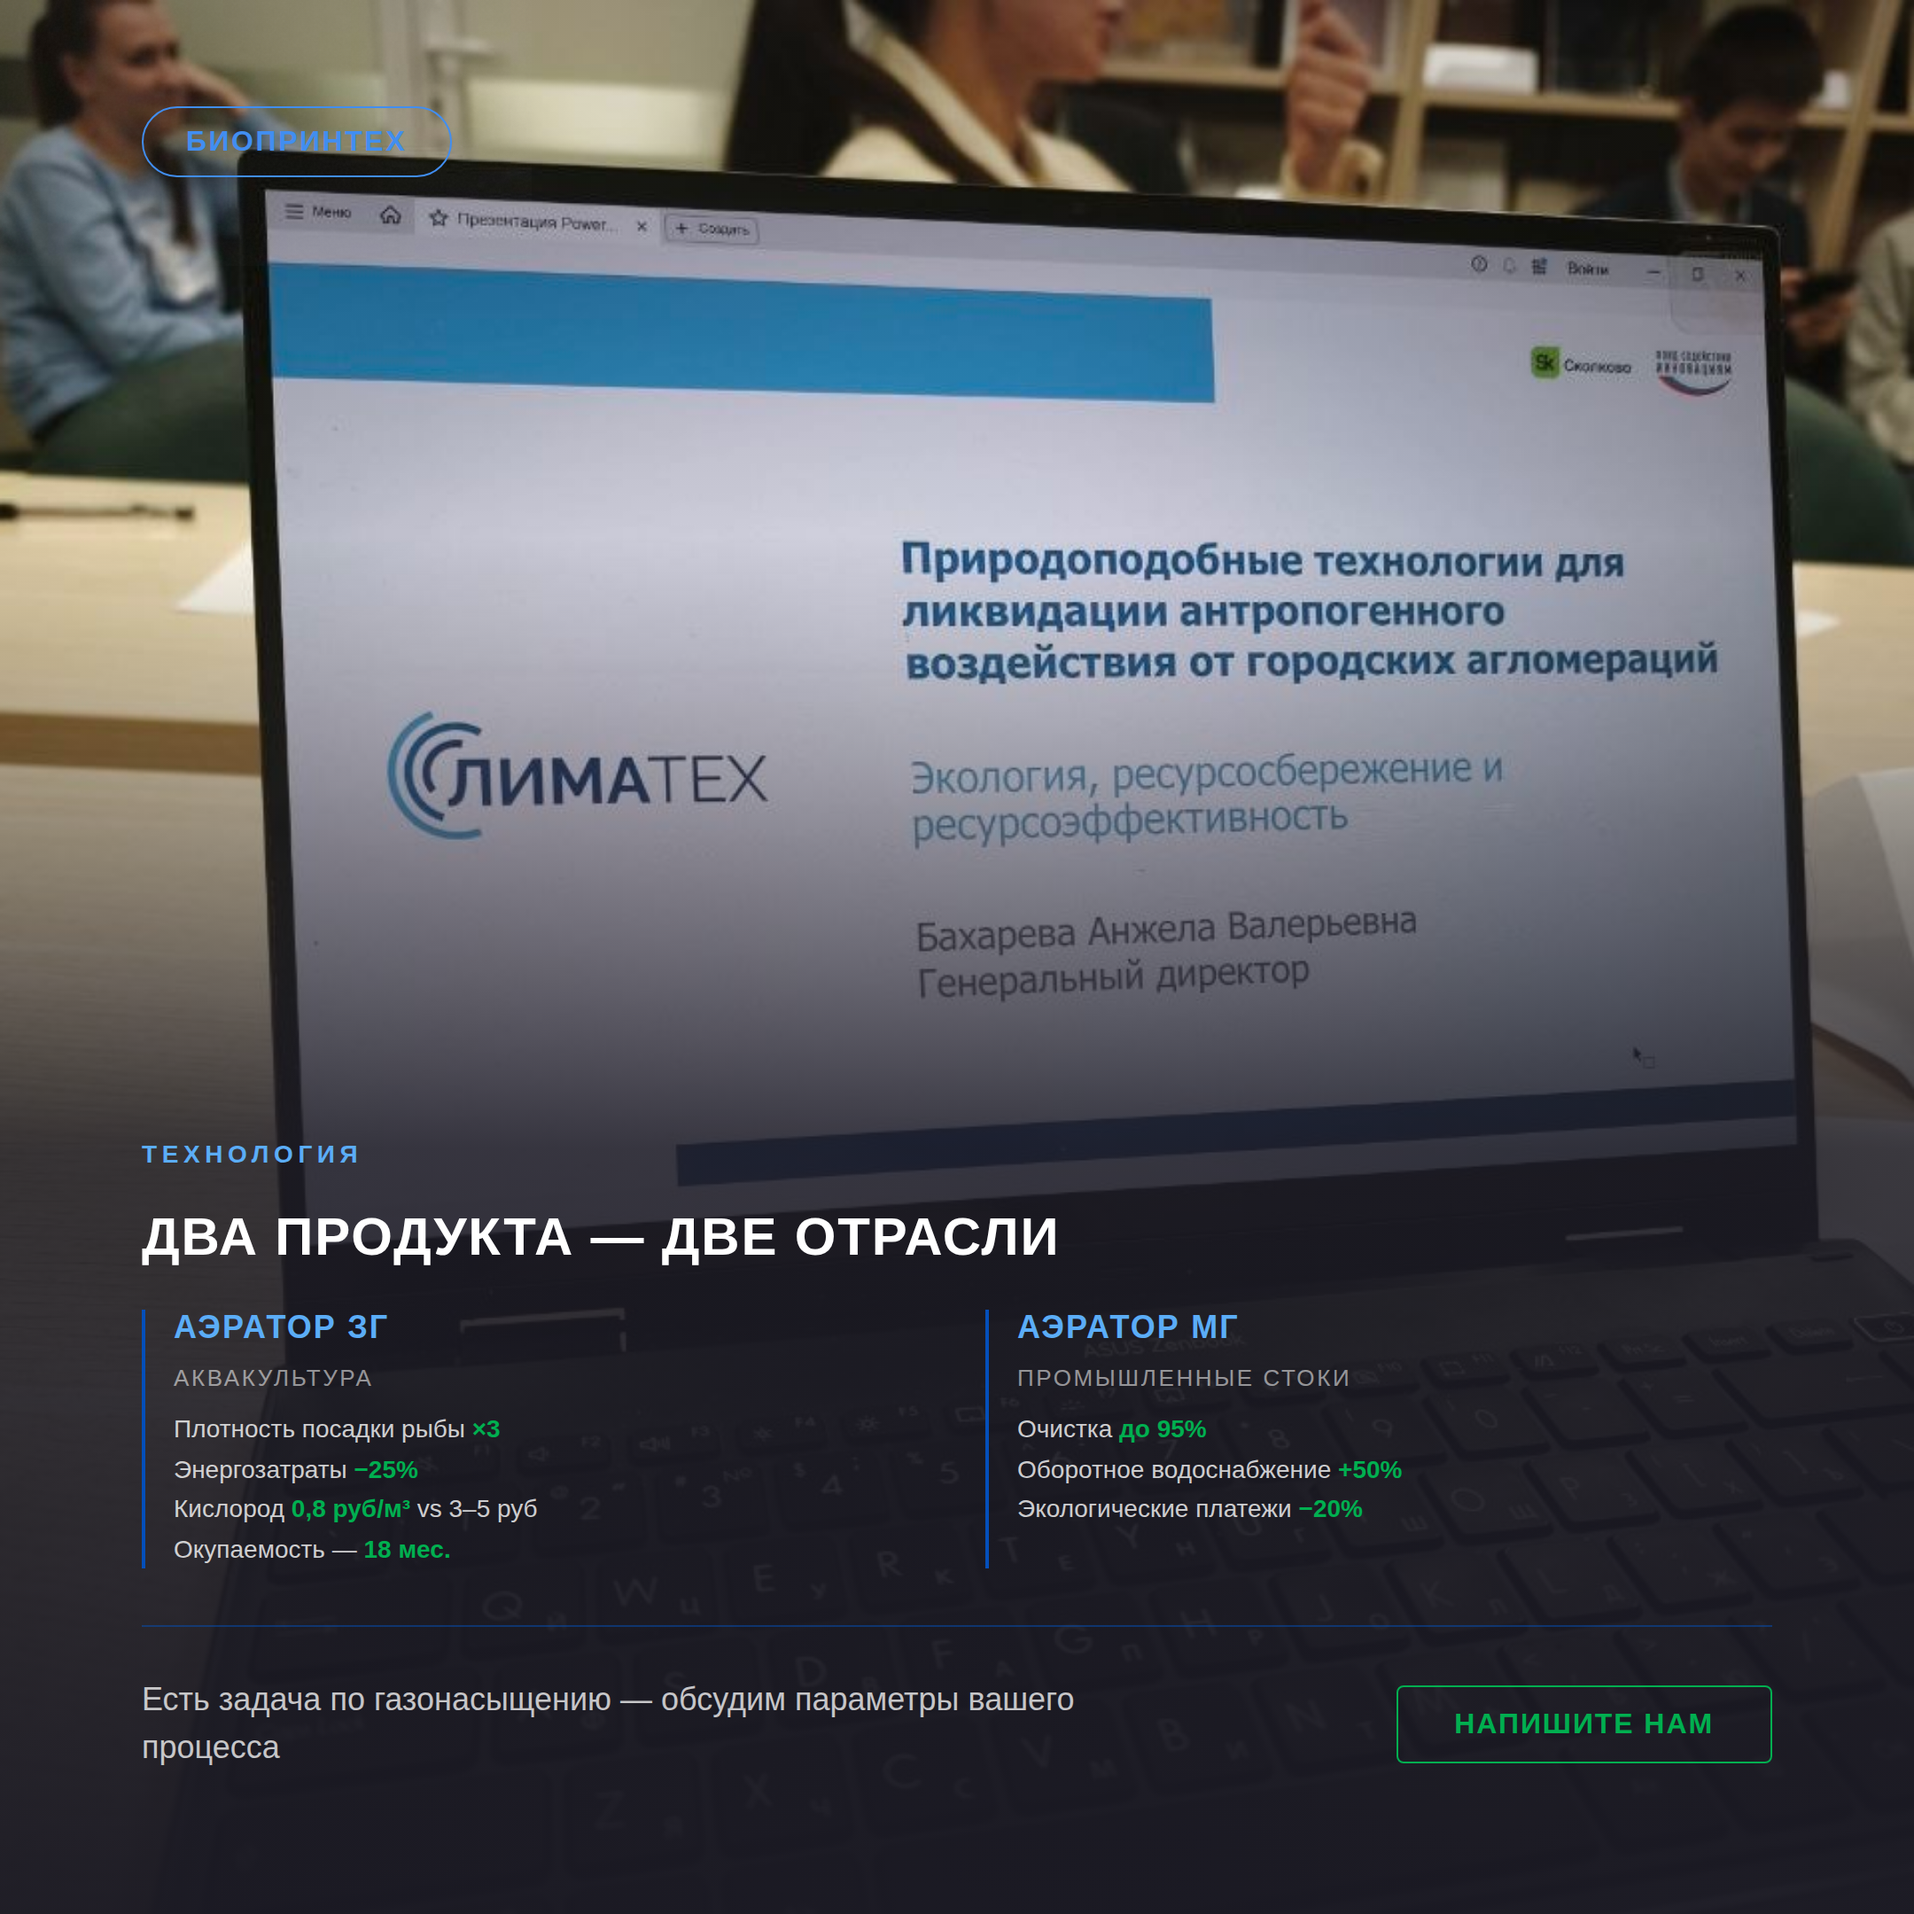
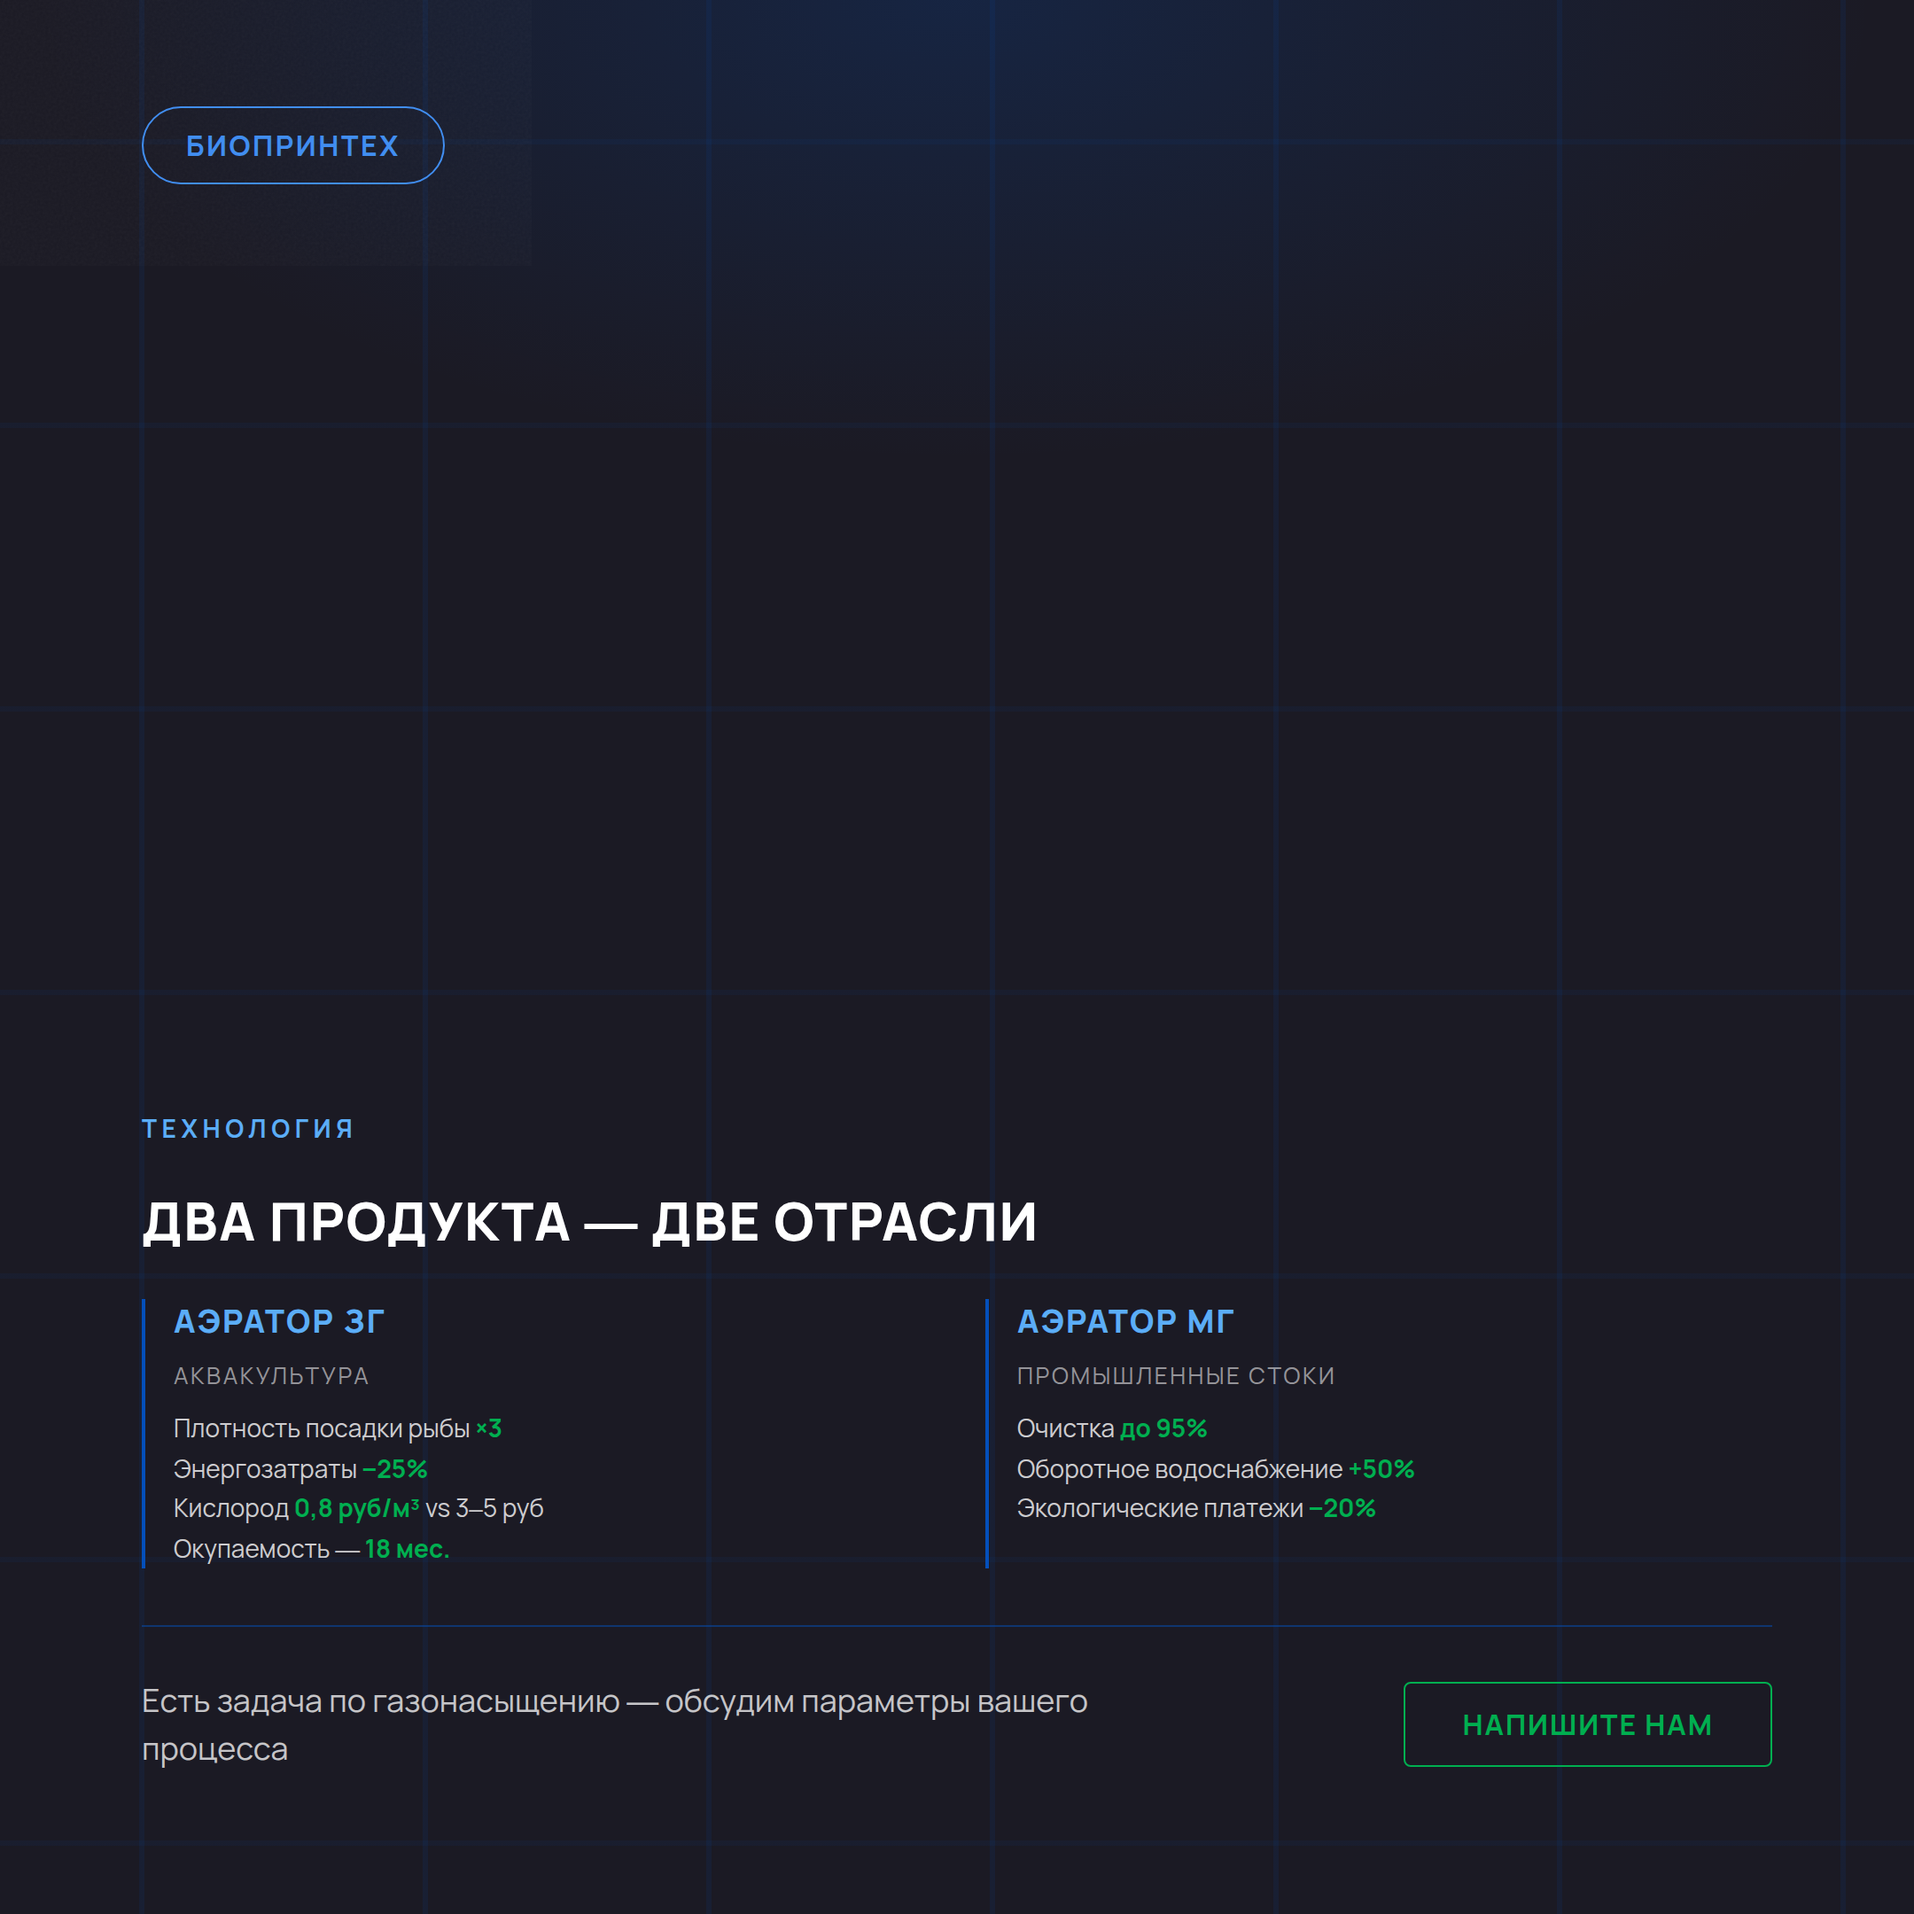
posts: шрифт Manrope локально + обновлён дизайн слайдов — Bioprintex_Limatex

diff --git a/projects/Bioprintex_Limatex/posts/drafts/27_04_2026-1/slide_03.html b/projects/Bioprintex_Limatex/posts/drafts/27_04_2026-1/slide_03.html
@@ -4,7 +4,12 @@
 <meta charset="UTF-8">
 <meta name="viewport" content="width=1080">
 <style>
-  @import url('https://fonts.googleapis.com/css2?family=Manrope:wght@400;600;700;800&display=swap');
+  @font-face { font-family: 'Manrope'; font-weight: 400; src: url('file:///home/user/smm-system/global/brand/fonts/Manrope-Latin-Regular.woff2') format('woff2'); unicode-range: U+0000-00FF; }
+  @font-face { font-family: 'Manrope'; font-weight: 400; src: url('file:///home/user/smm-system/global/brand/fonts/Manrope-Regular.woff2') format('woff2'); unicode-range: U+0400-04FF; }
+  @font-face { font-family: 'Manrope'; font-weight: 700; src: url('file:///home/user/smm-system/global/brand/fonts/Manrope-Latin-Bold.woff2') format('woff2'); unicode-range: U+0000-00FF; }
+  @font-face { font-family: 'Manrope'; font-weight: 700; src: url('file:///home/user/smm-system/global/brand/fonts/Manrope-Bold.woff2') format('woff2'); unicode-range: U+0400-04FF; }
+  @font-face { font-family: 'Manrope'; font-weight: 800; src: url('file:///home/user/smm-system/global/brand/fonts/Manrope-Latin-ExtraBold.woff2') format('woff2'); unicode-range: U+0000-00FF; }
+  @font-face { font-family: 'Manrope'; font-weight: 800; src: url('file:///home/user/smm-system/global/brand/fonts/Manrope-ExtraBold.woff2') format('woff2'); unicode-range: U+0400-04FF; }
 
   * { margin: 0; padding: 0; box-sizing: border-box; }
 
@@ -23,20 +28,21 @@
     overflow: hidden;
   }
 
-  /* Photo background */
+  /* Dark tech background */
   .photo-bg {
     position: absolute;
     inset: 0;
-    background-image: url('file:///home/user/smm-system/projects/Bioprintex_Limatex/posts/inbox/23_04_2026-konferentsiya/photo_02.jpg');
-    background-size: cover;
-    background-position: center center;
+    background: #1B1A24;
+    background-image:
+      linear-gradient(90deg, transparent 49%, rgba(4,79,186,0.10) 49%, rgba(4,79,186,0.10) 51%, transparent 51%),
+      linear-gradient(0deg, transparent 49%, rgba(4,79,186,0.07) 49%, rgba(4,79,186,0.07) 51%, transparent 51%);
+    background-size: 160px 160px;
   }
 
-  /* Heavy dark overlay — photo becomes texture */
   .overlay {
     position: absolute;
     inset: 0;
-    background: rgba(27,26,36,0.80);
+    background: radial-gradient(ellipse 90% 60% at 50% 50%, rgba(4,79,186,0.12) 0%, rgba(27,26,36,0) 70%);
   }
 
   /* Grain overlay */
@@ -261,15 +267,15 @@
       <div class="achievement-sublabel">Инновации в пищевой отрасли</div>
     </div>
 
-    <!-- Block 4: Patent -->
+    <!-- Block 4: Страна Возможностей -->
     <div class="achievement">
       <svg class="achievement-icon" width="44" height="44" viewBox="0 0 44 44" fill="none" xmlns="http://www.w3.org/2000/svg">
-        <path d="M22 4 L36 10 L36 24 C36 32 22 40 22 40 C22 40 8 32 8 24 L8 10 Z" stroke="#00AF50" stroke-width="1.5" fill="none" stroke-linejoin="round"/>
-        <path d="M16 22 L20 26 L28 18" stroke="#00AF50" stroke-width="2" stroke-linecap="round" stroke-linejoin="round"/>
+        <circle cx="22" cy="22" r="16" stroke="#00AF50" stroke-width="1.5" fill="none"/>
+        <path d="M14 22 L19 27 L30 16" stroke="#00AF50" stroke-width="2" stroke-linecap="round" stroke-linejoin="round"/>
       </svg>
-      <div class="achievement-number green">ПАТЕНТ</div>
-      <div class="achievement-label">Патентная защита<br>разработок компании</div>
-      <div class="achievement-sublabel">Интеллектуальная собственность</div>
+      <div class="achievement-number green" style="font-size:28px;line-height:1.2">Нац. экол.<br>инициатива</div>
+      <div class="achievement-label">Лауреаты конкурса<br>«Страна Возможностей»</div>
+      <div class="achievement-sublabel">Таврида·Арт · Экология</div>
     </div>
 
   </div>

diff --git a/projects/Bioprintex_Limatex/posts/drafts/27_04_2026-1/slide_02.html b/projects/Bioprintex_Limatex/posts/drafts/27_04_2026-1/slide_02.html
@@ -4,7 +4,12 @@
 <meta charset="UTF-8">
 <meta name="viewport" content="width=1080">
 <style>
-  @import url('https://fonts.googleapis.com/css2?family=Manrope:wght@400;600;700;800&display=swap');
+  @font-face { font-family: 'Manrope'; font-weight: 400; src: url('file:///home/user/smm-system/global/brand/fonts/Manrope-Latin-Regular.woff2') format('woff2'); unicode-range: U+0000-00FF; }
+  @font-face { font-family: 'Manrope'; font-weight: 400; src: url('file:///home/user/smm-system/global/brand/fonts/Manrope-Regular.woff2') format('woff2'); unicode-range: U+0400-04FF; }
+  @font-face { font-family: 'Manrope'; font-weight: 700; src: url('file:///home/user/smm-system/global/brand/fonts/Manrope-Latin-Bold.woff2') format('woff2'); unicode-range: U+0000-00FF; }
+  @font-face { font-family: 'Manrope'; font-weight: 700; src: url('file:///home/user/smm-system/global/brand/fonts/Manrope-Bold.woff2') format('woff2'); unicode-range: U+0400-04FF; }
+  @font-face { font-family: 'Manrope'; font-weight: 800; src: url('file:///home/user/smm-system/global/brand/fonts/Manrope-Latin-ExtraBold.woff2') format('woff2'); unicode-range: U+0000-00FF; }
+  @font-face { font-family: 'Manrope'; font-weight: 800; src: url('file:///home/user/smm-system/global/brand/fonts/Manrope-ExtraBold.woff2') format('woff2'); unicode-range: U+0400-04FF; }
 
   * { margin: 0; padding: 0; box-sizing: border-box; }
 
@@ -23,26 +28,23 @@
     overflow: hidden;
   }
 
-  /* Full-bleed photo background */
+  /* Dark tech background */
   .photo-bg {
     position: absolute;
     inset: 0;
-    background-image: url('file:///home/user/smm-system/projects/Bioprintex_Limatex/posts/inbox/23_04_2026-konferentsiya/photo_04.jpg');
-    background-size: cover;
-    background-position: center top;
+    background: #1B1A24;
+    background-image:
+      linear-gradient(90deg, transparent 49%, rgba(4,79,186,0.10) 49%, rgba(4,79,186,0.10) 51%, transparent 51%),
+      linear-gradient(0deg, transparent 49%, rgba(4,79,186,0.07) 49%, rgba(4,79,186,0.07) 51%, transparent 51%);
+    background-size: 160px 160px;
   }
 
-  /* Gradient overlay from bottom */
+  /* Radial glow top-center (suggests people / presence) */
   .overlay {
     position: absolute;
     inset: 0;
-    background: linear-gradient(
-      to bottom,
-      rgba(27,26,36,0.15) 0%,
-      rgba(27,26,36,0) 35%,
-      rgba(27,26,36,0.75) 65%,
-      rgba(27,26,36,0.92) 100%
-    );
+    background: radial-gradient(ellipse 80% 50% at 50% 20%, rgba(4,79,186,0.18) 0%, rgba(27,26,36,0) 70%),
+                linear-gradient(to bottom, rgba(27,26,36,0) 50%, rgba(27,26,36,0.6) 100%);
   }
 
   /* Grain overlay */

diff --git a/projects/Bioprintex_Limatex/posts/drafts/27_04_2026-1/slide_04.html b/projects/Bioprintex_Limatex/posts/drafts/27_04_2026-1/slide_04.html
@@ -4,7 +4,12 @@
 <meta charset="UTF-8">
 <meta name="viewport" content="width=1080">
 <style>
-  @import url('https://fonts.googleapis.com/css2?family=Manrope:wght@400;600;700;800&display=swap');
+  @font-face { font-family: 'Manrope'; font-weight: 400; src: url('file:///home/user/smm-system/global/brand/fonts/Manrope-Latin-Regular.woff2') format('woff2'); unicode-range: U+0000-00FF; }
+  @font-face { font-family: 'Manrope'; font-weight: 400; src: url('file:///home/user/smm-system/global/brand/fonts/Manrope-Regular.woff2') format('woff2'); unicode-range: U+0400-04FF; }
+  @font-face { font-family: 'Manrope'; font-weight: 700; src: url('file:///home/user/smm-system/global/brand/fonts/Manrope-Latin-Bold.woff2') format('woff2'); unicode-range: U+0000-00FF; }
+  @font-face { font-family: 'Manrope'; font-weight: 700; src: url('file:///home/user/smm-system/global/brand/fonts/Manrope-Bold.woff2') format('woff2'); unicode-range: U+0400-04FF; }
+  @font-face { font-family: 'Manrope'; font-weight: 800; src: url('file:///home/user/smm-system/global/brand/fonts/Manrope-Latin-ExtraBold.woff2') format('woff2'); unicode-range: U+0000-00FF; }
+  @font-face { font-family: 'Manrope'; font-weight: 800; src: url('file:///home/user/smm-system/global/brand/fonts/Manrope-ExtraBold.woff2') format('woff2'); unicode-range: U+0400-04FF; }
 
   * { margin: 0; padding: 0; box-sizing: border-box; }
 
@@ -23,26 +28,21 @@
     overflow: hidden;
   }
 
-  /* Full-bleed photo background */
+  /* Dark tech background */
   .photo-bg {
     position: absolute;
     inset: 0;
-    background-image: url('file:///home/user/smm-system/projects/Bioprintex_Limatex/posts/inbox/23_04_2026-konferentsiya/photo_01.jpg');
-    background-size: cover;
-    background-position: center center;
+    background: #1B1A24;
+    background-image:
+      linear-gradient(90deg, transparent 49%, rgba(4,79,186,0.10) 49%, rgba(4,79,186,0.10) 51%, transparent 51%),
+      linear-gradient(0deg, transparent 49%, rgba(4,79,186,0.07) 49%, rgba(4,79,186,0.07) 51%, transparent 51%);
+    background-size: 160px 160px;
   }
 
-  /* Gradient overlay */
   .overlay {
     position: absolute;
     inset: 0;
-    background: linear-gradient(
-      to bottom,
-      rgba(27,26,36,0.2) 0%,
-      rgba(27,26,36,0) 28%,
-      rgba(27,26,36,0.85) 60%,
-      rgba(27,26,36,0.97) 100%
-    );
+    background: radial-gradient(ellipse 80% 40% at 50% 0%, rgba(4,79,186,0.20) 0%, rgba(27,26,36,0) 60%);
   }
 
   /* Grain overlay */

diff --git a/projects/Bioprintex_Limatex/posts/drafts/27_04_2026-1/slide_01.html b/projects/Bioprintex_Limatex/posts/drafts/27_04_2026-1/slide_01.html
@@ -4,7 +4,12 @@
 <meta charset="UTF-8">
 <meta name="viewport" content="width=1080">
 <style>
-  @import url('https://fonts.googleapis.com/css2?family=Manrope:wght@400;600;700;800&display=swap');
+  @font-face { font-family: 'Manrope'; font-weight: 400; src: url('file:///home/user/smm-system/global/brand/fonts/Manrope-Latin-Regular.woff2') format('woff2'); unicode-range: U+0000-00FF; }
+  @font-face { font-family: 'Manrope'; font-weight: 400; src: url('file:///home/user/smm-system/global/brand/fonts/Manrope-Regular.woff2') format('woff2'); unicode-range: U+0400-04FF; }
+  @font-face { font-family: 'Manrope'; font-weight: 700; src: url('file:///home/user/smm-system/global/brand/fonts/Manrope-Latin-Bold.woff2') format('woff2'); unicode-range: U+0000-00FF; }
+  @font-face { font-family: 'Manrope'; font-weight: 700; src: url('file:///home/user/smm-system/global/brand/fonts/Manrope-Bold.woff2') format('woff2'); unicode-range: U+0400-04FF; }
+  @font-face { font-family: 'Manrope'; font-weight: 800; src: url('file:///home/user/smm-system/global/brand/fonts/Manrope-Latin-ExtraBold.woff2') format('woff2'); unicode-range: U+0000-00FF; }
+  @font-face { font-family: 'Manrope'; font-weight: 800; src: url('file:///home/user/smm-system/global/brand/fonts/Manrope-ExtraBold.woff2') format('woff2'); unicode-range: U+0400-04FF; }
 
   * { margin: 0; padding: 0; box-sizing: border-box; }
 
